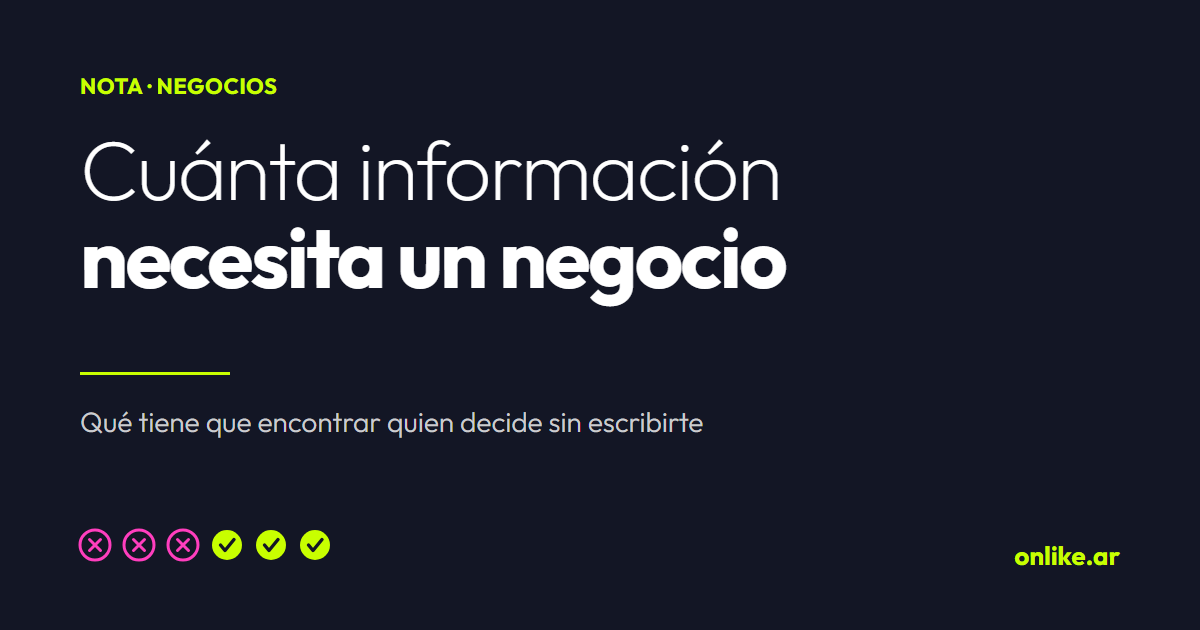
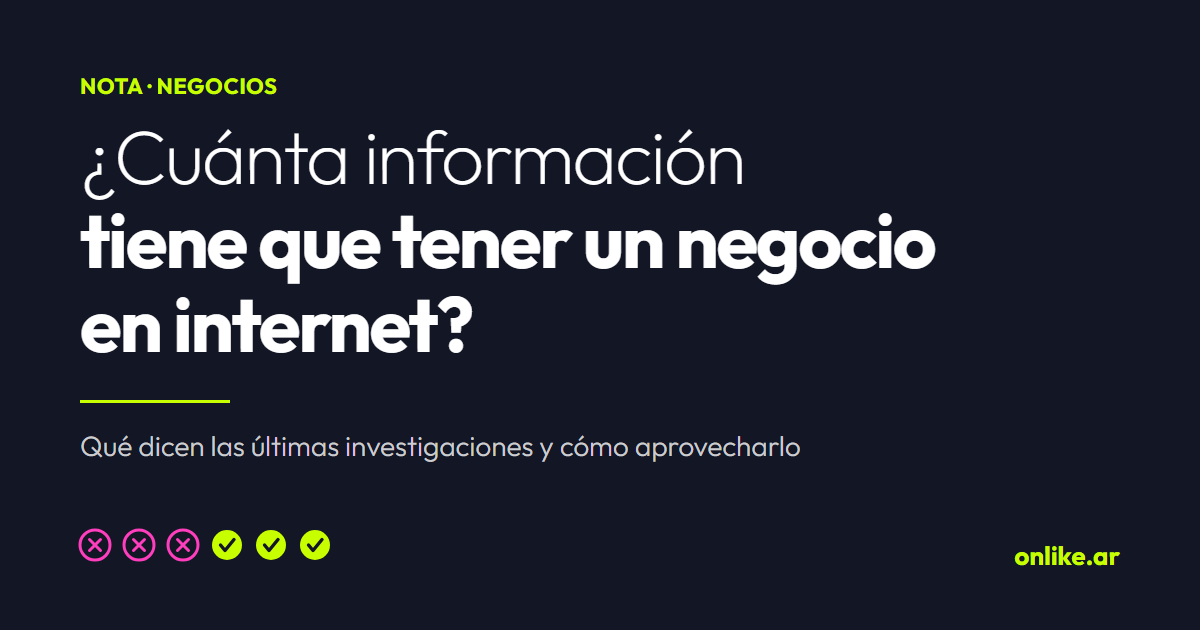
Cambia el título y la bajada de la nota sobre cuánta información necesita un negocio
- Título: "¿Cuánta información tiene que tener un negocio en internet?"
  (59 caracteres en el title, sin el sufijo del sitio).
- Bajada: el texto de presentación de la investigación, con las erratas
  corregidas.
- Descripción, Open Graph, datos estructurados, índice de notas, llms.txt y
  llms-full.txt acompañan el título nuevo; imagen para compartir regenerada.
- La URL no cambia.

Changed region(s): [[0.0617, 0.2111, 0.8017, 0.6032], [0.0617, 0.6333, 0.6783, 0.7238]]

diff --git a/cuanta-informacion-necesita-un-negocio.html b/cuanta-informacion-necesita-un-negocio.html
@@ -5,8 +5,8 @@
 <link rel="apple-touch-icon" sizes="192x192" href="https://onlike.ar/assets/icon-192.png">
 <meta name="theme-color" content="#131625">
 <meta name="viewport" content="width=device-width, initial-scale=1.0">
-<title>Cuánta información necesita un negocio | Laura Silvester</title>
-<meta name="description" content="Cuánta información necesita un negocio para que alguien decida sin escribirte: qué dudas responder, qué tan específico ser y dónde publicarlo.">
+<title>¿Cuánta información tiene que tener un negocio en internet?</title>
+<meta name="description" content="Cuánta información tiene que tener un negocio en internet, según investigaciones actuales: qué dudas responder, qué tan específico ser y dónde publicarla.">
 <meta name="robots" content="index, follow, max-snippet:-1, max-image-preview:large">
 <meta name="author" content="Laura Silvester · ONLIKE">
 <link rel="canonical" href="https://onlike.ar/cuanta-informacion-necesita-un-negocio.html">
@@ -14,8 +14,8 @@
 <link rel="alternate" hreflang="x-default" href="https://onlike.ar/cuanta-informacion-necesita-un-negocio.html">
 
 <meta property="og:type" content="article">
-<meta property="og:title" content="Cuánta información necesita un negocio">
-<meta property="og:description" content="Antes de escribirte, la gente ya buscó. Qué tiene que encontrar de tu negocio para decidir sin preguntarte lo básico, y dónde tiene que estar escrito.">
+<meta property="og:title" content="¿Cuánta información tiene que tener un negocio en internet?">
+<meta property="og:description" content="Cuánta información tiene que tener un negocio en internet, según investigaciones actuales: qué dudas responder, qué tan específico ser y dónde publicarla.">
 <meta property="og:url" content="https://onlike.ar/cuanta-informacion-necesita-un-negocio.html">
 <meta property="og:locale" content="es_AR">
 <meta property="og:site_name" content="ONLIKE">
@@ -26,7 +26,7 @@
 <meta property="article:modified_time" content="2026-11-24">
 <meta property="article:author" content="Laura Silvester">
 <meta name="twitter:card" content="summary_large_image">
-<meta name="twitter:title" content="Cuánta información necesita un negocio">
+<meta name="twitter:title" content="¿Cuánta información tiene que tener un negocio en internet?">
 <meta name="twitter:description" content="Qué dudas responder, qué tan específico ser y dónde publicarlo para que alguien decida sin escribirte.">
 <meta name="twitter:image" content="https://onlike.ar/assets/og-cuanta-informacion.png">
 
@@ -218,9 +218,9 @@ j=d.createElement(s),dl=l!='dataLayer'?'&l='+l:'';j.async=true;j.src=
     {
       "@type": "Article",
       "@id": "https://onlike.ar/cuanta-informacion-necesita-un-negocio.html#article",
-      "headline": "Cuánta información necesita un negocio",
-      "description": "Cuánta información necesita un negocio para que alguien decida sin escribirte. Qué dudas conviene responder, cuándo se puede dar demasiada información, qué tan específica tiene que ser, qué cambia que otros avalen lo que decís y en qué lugares y formatos tiene que estar publicada.",
-      "abstract": "Antes de escribirte, la gente ya buscó. Qué tiene que encontrar de tu negocio para decidir sin preguntarte lo básico, y dónde tiene que estar escrito.",
+      "headline": "¿Cuánta información tiene que tener un negocio en internet?",
+      "description": "Cuánta información tiene que tener un negocio en internet para que alguien decida sin escribirte. Qué dudas conviene responder, cuándo se puede dar demasiada información, qué tan específica tiene que ser, qué cambia que otros avalen lo que decís y en qué lugares y formatos tiene que estar publicada.",
+      "abstract": "Esta nota surge como resultado de una investigación que hice porque me intrigaba saber, con datos actuales, si existe una cantidad y una calidad de información correctas que tiene que tener un negocio en internet, en la nube o como lo queramos llamar. Sé lo importante que es la información para los motores de búsqueda y las IA, y para las personas, pero ¿qué dicen las últimas investigaciones al respecto y cómo podemos aprovechar esto para nutrir nuestras webs, redes sociales y otras plataformas? ¡Que lo aproveches!",
       "inLanguage": "es-AR",
       "datePublished": "2026-11-24",
       "dateModified": "2026-11-24",
@@ -376,7 +376,7 @@ j=d.createElement(s),dl=l!='dataLayer'?'&l='+l:'';j.async=true;j.src=
         {
           "@type": "ListItem",
           "position": 3,
-          "name": "Cuánta información necesita un negocio"
+          "name": "¿Cuánta información tiene que tener un negocio en internet?"
         }
       ]
     },
@@ -451,8 +451,8 @@ j=d.createElement(s),dl=l!='dataLayer'?'&l='+l:'';j.async=true;j.src=
 
 <div class="nota-hero">
   <div class="container-narrow">
-    <h1><span class="thin">Cuánta información</span> necesita un negocio</h1>
-    <p class="nota-bajada">Antes de escribirte, la gente ya buscó. Qué tiene que encontrar de tu negocio para decidir sin preguntarte lo básico, y dónde tiene que estar escrito.</p>
+    <h1><span class="thin">¿Cuánta información</span> tiene que tener un negocio en internet?</h1>
+    <p class="nota-bajada">Esta nota surge como resultado de una investigación que hice porque me intrigaba saber, con datos actuales, si existe una cantidad y una calidad de información correctas que tiene que tener un negocio en internet, en la nube o como lo queramos llamar. Sé lo importante que es la información para los motores de búsqueda y las IA, y para las personas, pero ¿qué dicen las últimas investigaciones al respecto y cómo podemos aprovechar esto para nutrir nuestras webs, redes sociales y otras plataformas? ¡Que lo aproveches!</p>
     <div class="nota-meta">
       <span>Por <strong>Laura Silvester</strong></span>
       <span><time datetime="2026-11-24">Noviembre de 2026</time></span>

diff --git a/notas.html b/notas.html
@@ -236,7 +236,7 @@ j=d.createElement(s),dl=l!='dataLayer'?'&l='+l:'';j.async=true;j.src=
   "blogPost": [
     {
       "@type": "BlogPosting",
-      "headline": "Cuánta información necesita un negocio",
+      "headline": "¿Cuánta información tiene que tener un negocio en internet?",
       "url": "https://onlike.ar/cuanta-informacion-necesita-un-negocio.html",
       "datePublished": "2026-11-24",
       "inLanguage": "es-AR",
@@ -404,7 +404,7 @@ height="0" width="0" style="display:none;visibility:hidden"></iframe></noscript>
 
     <a class="idx-item" href="https://onlike.ar/cuanta-informacion-necesita-un-negocio.html">
       <span class="idx-fecha"><time datetime="2026-11-24">24 de noviembre de 2026</time></span>
-      <h2>Cuánta información necesita un negocio</h2>
+      <h2>¿Cuánta información tiene que tener un negocio en internet?</h2>
       <p>Cuánta información alcanza para que alguien decida sin escribirte, si se puede dar demasiada, qué tan específica tiene que ser, qué cambia que otros avalen lo que decís y dónde y en qué formato tiene que estar publicada. Para cualquier negocio, no solo turístico.</p>
       <span class="idx-mas">Leer la nota →</span>
     </a>
